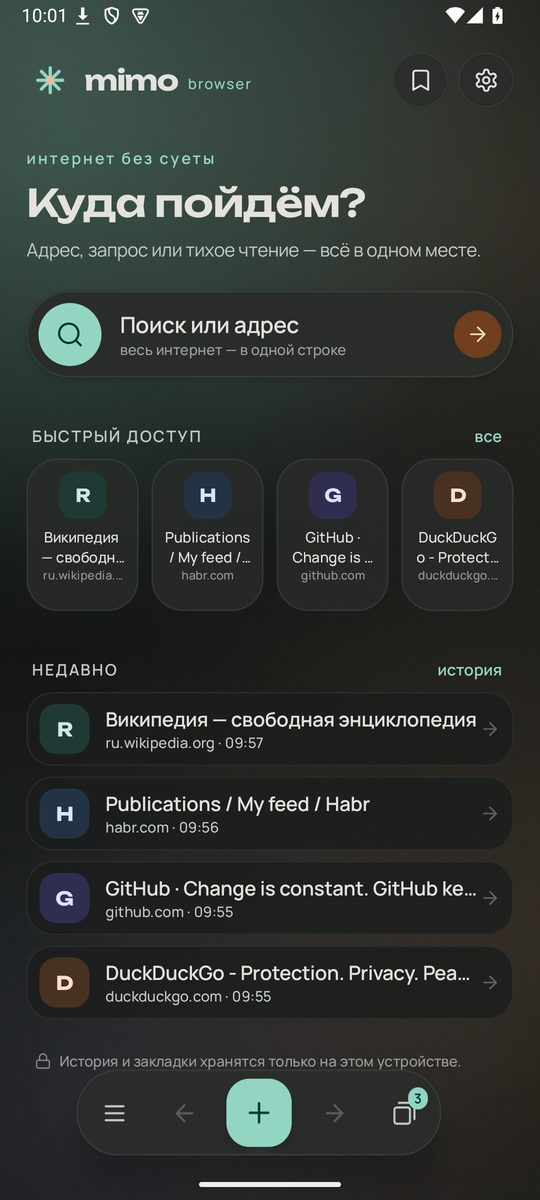
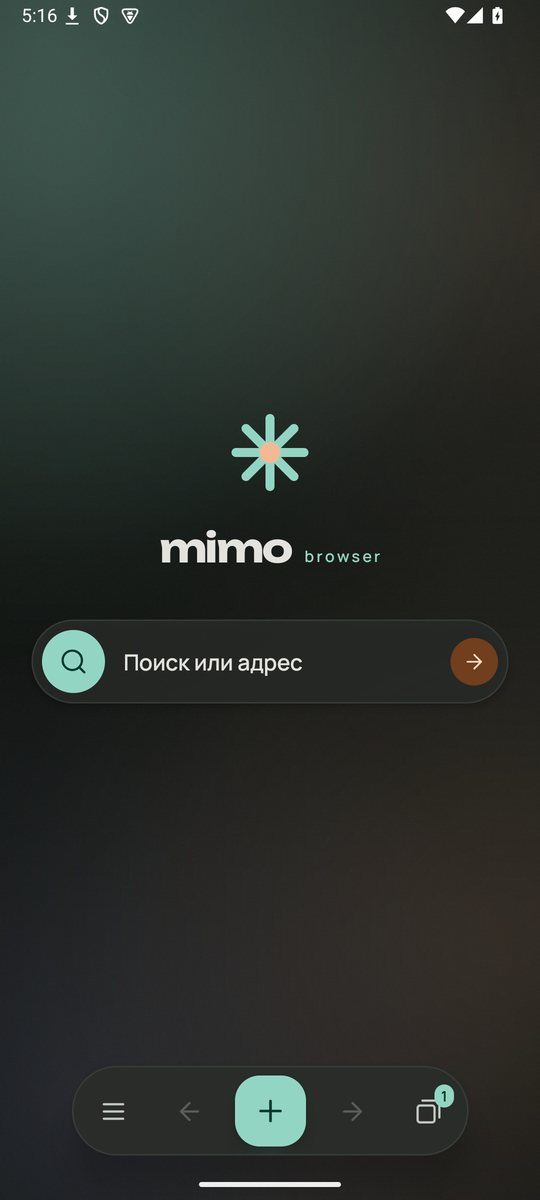
Refresh the simple Mimo Browser home

diff --git a/docs/browser.html b/docs/browser.html
@@ -197,7 +197,7 @@
         <article class="feature-card paper-mint reveal">
           <span class="feature-icon"><svg><use href="#i-history"/></svg></span>
           <h3>Всё под рукой</h3>
-          <p>Дом с быстрым доступом, недавней историей и большим поиском. Плавающий док прозрачный, а меню раскрывается из него стеклянной поверхностью с размытием страницы.</p>
+          <p>Простая главная: логотип Mimo, название браузера и большая строка поиска по центру. Всё остальное — в нижнем доке: меню, вкладки, закладки, история и настройки.</p>
         </article>
         <article class="feature-card paper-coral reveal">
           <span class="feature-icon"><svg><use href="#i-palette"/></svg></span>
@@ -281,7 +281,7 @@
         <div class="download-copy">
           <span class="kicker">Попробовать</span>
           <h2>Скачайте Mimo Browser</h2>
-          <p>Версия 0.1.8 для Android 9+.<br>Обновления — прямо из приложения.</p>
+          <p>Версия 0.1.9 для Android 9+.<br>Обновления — прямо из приложения.</p>
           <div class="download-actions">
             <a class="btn btn-primary" href="https://github.com/dokmoshen/mimo-browser/releases/latest/download/mimo-browser.apk">
               <svg class="icon"><use href="#i-download"/></svg>
